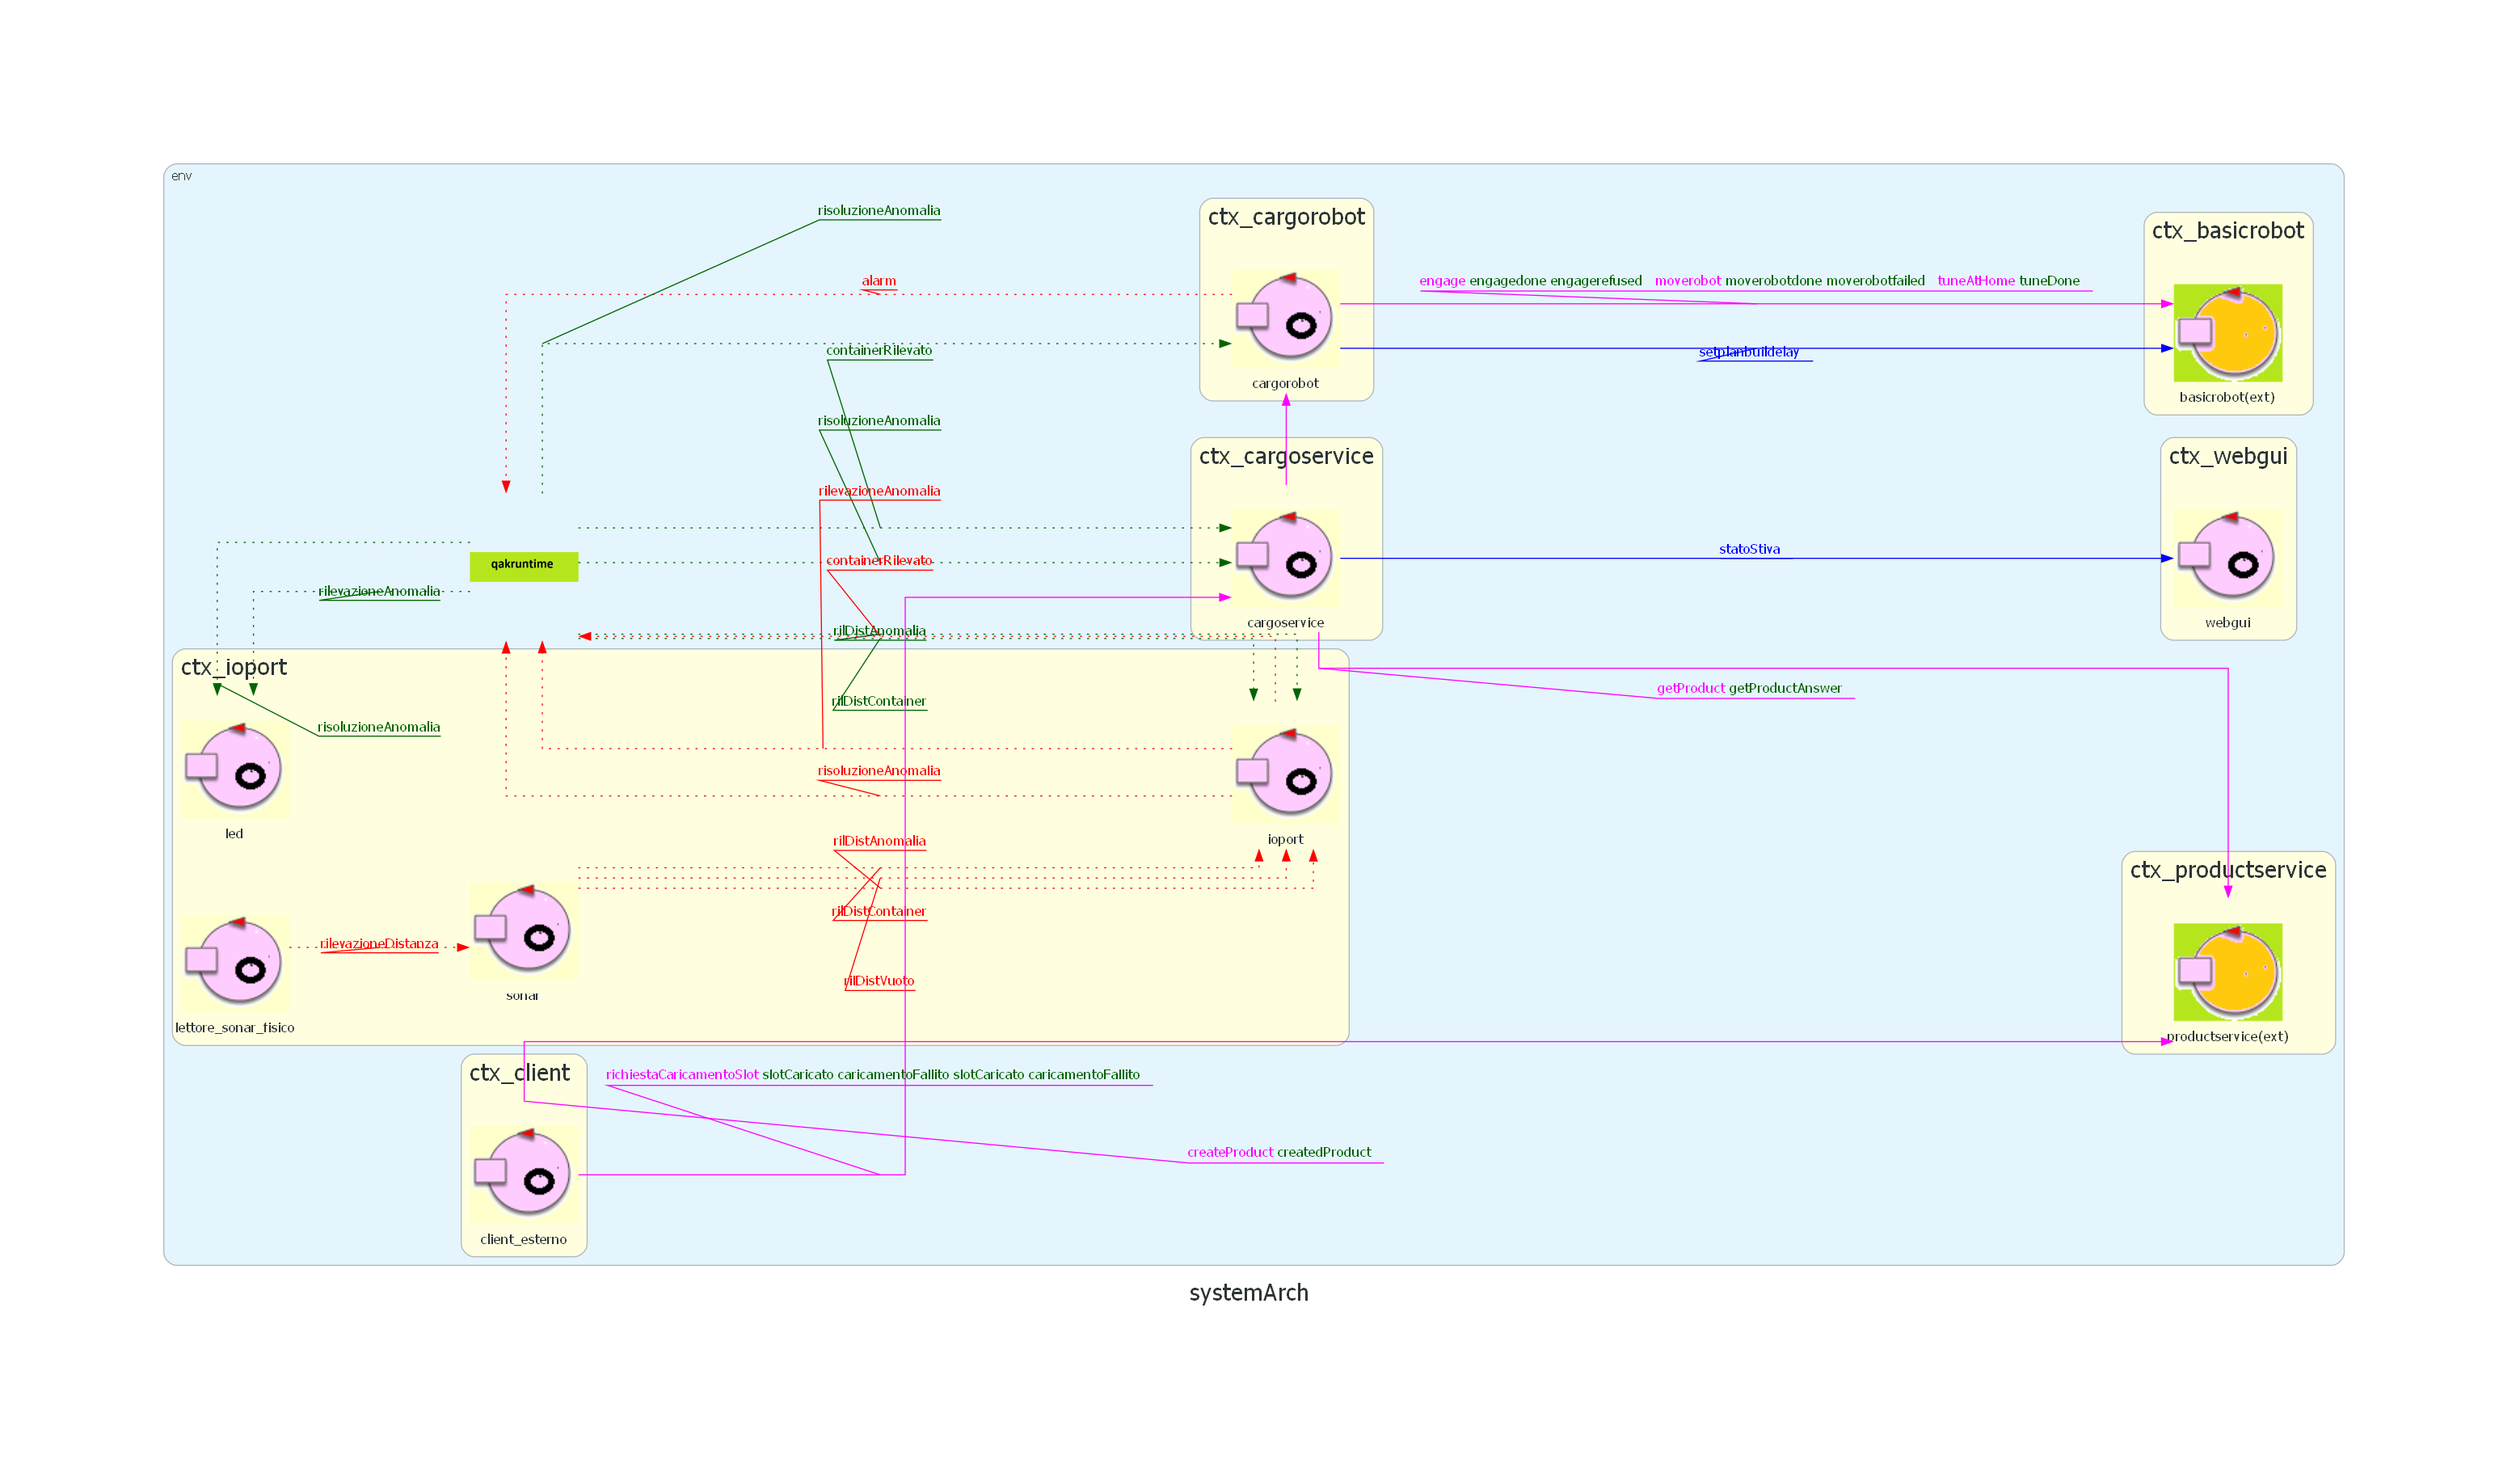
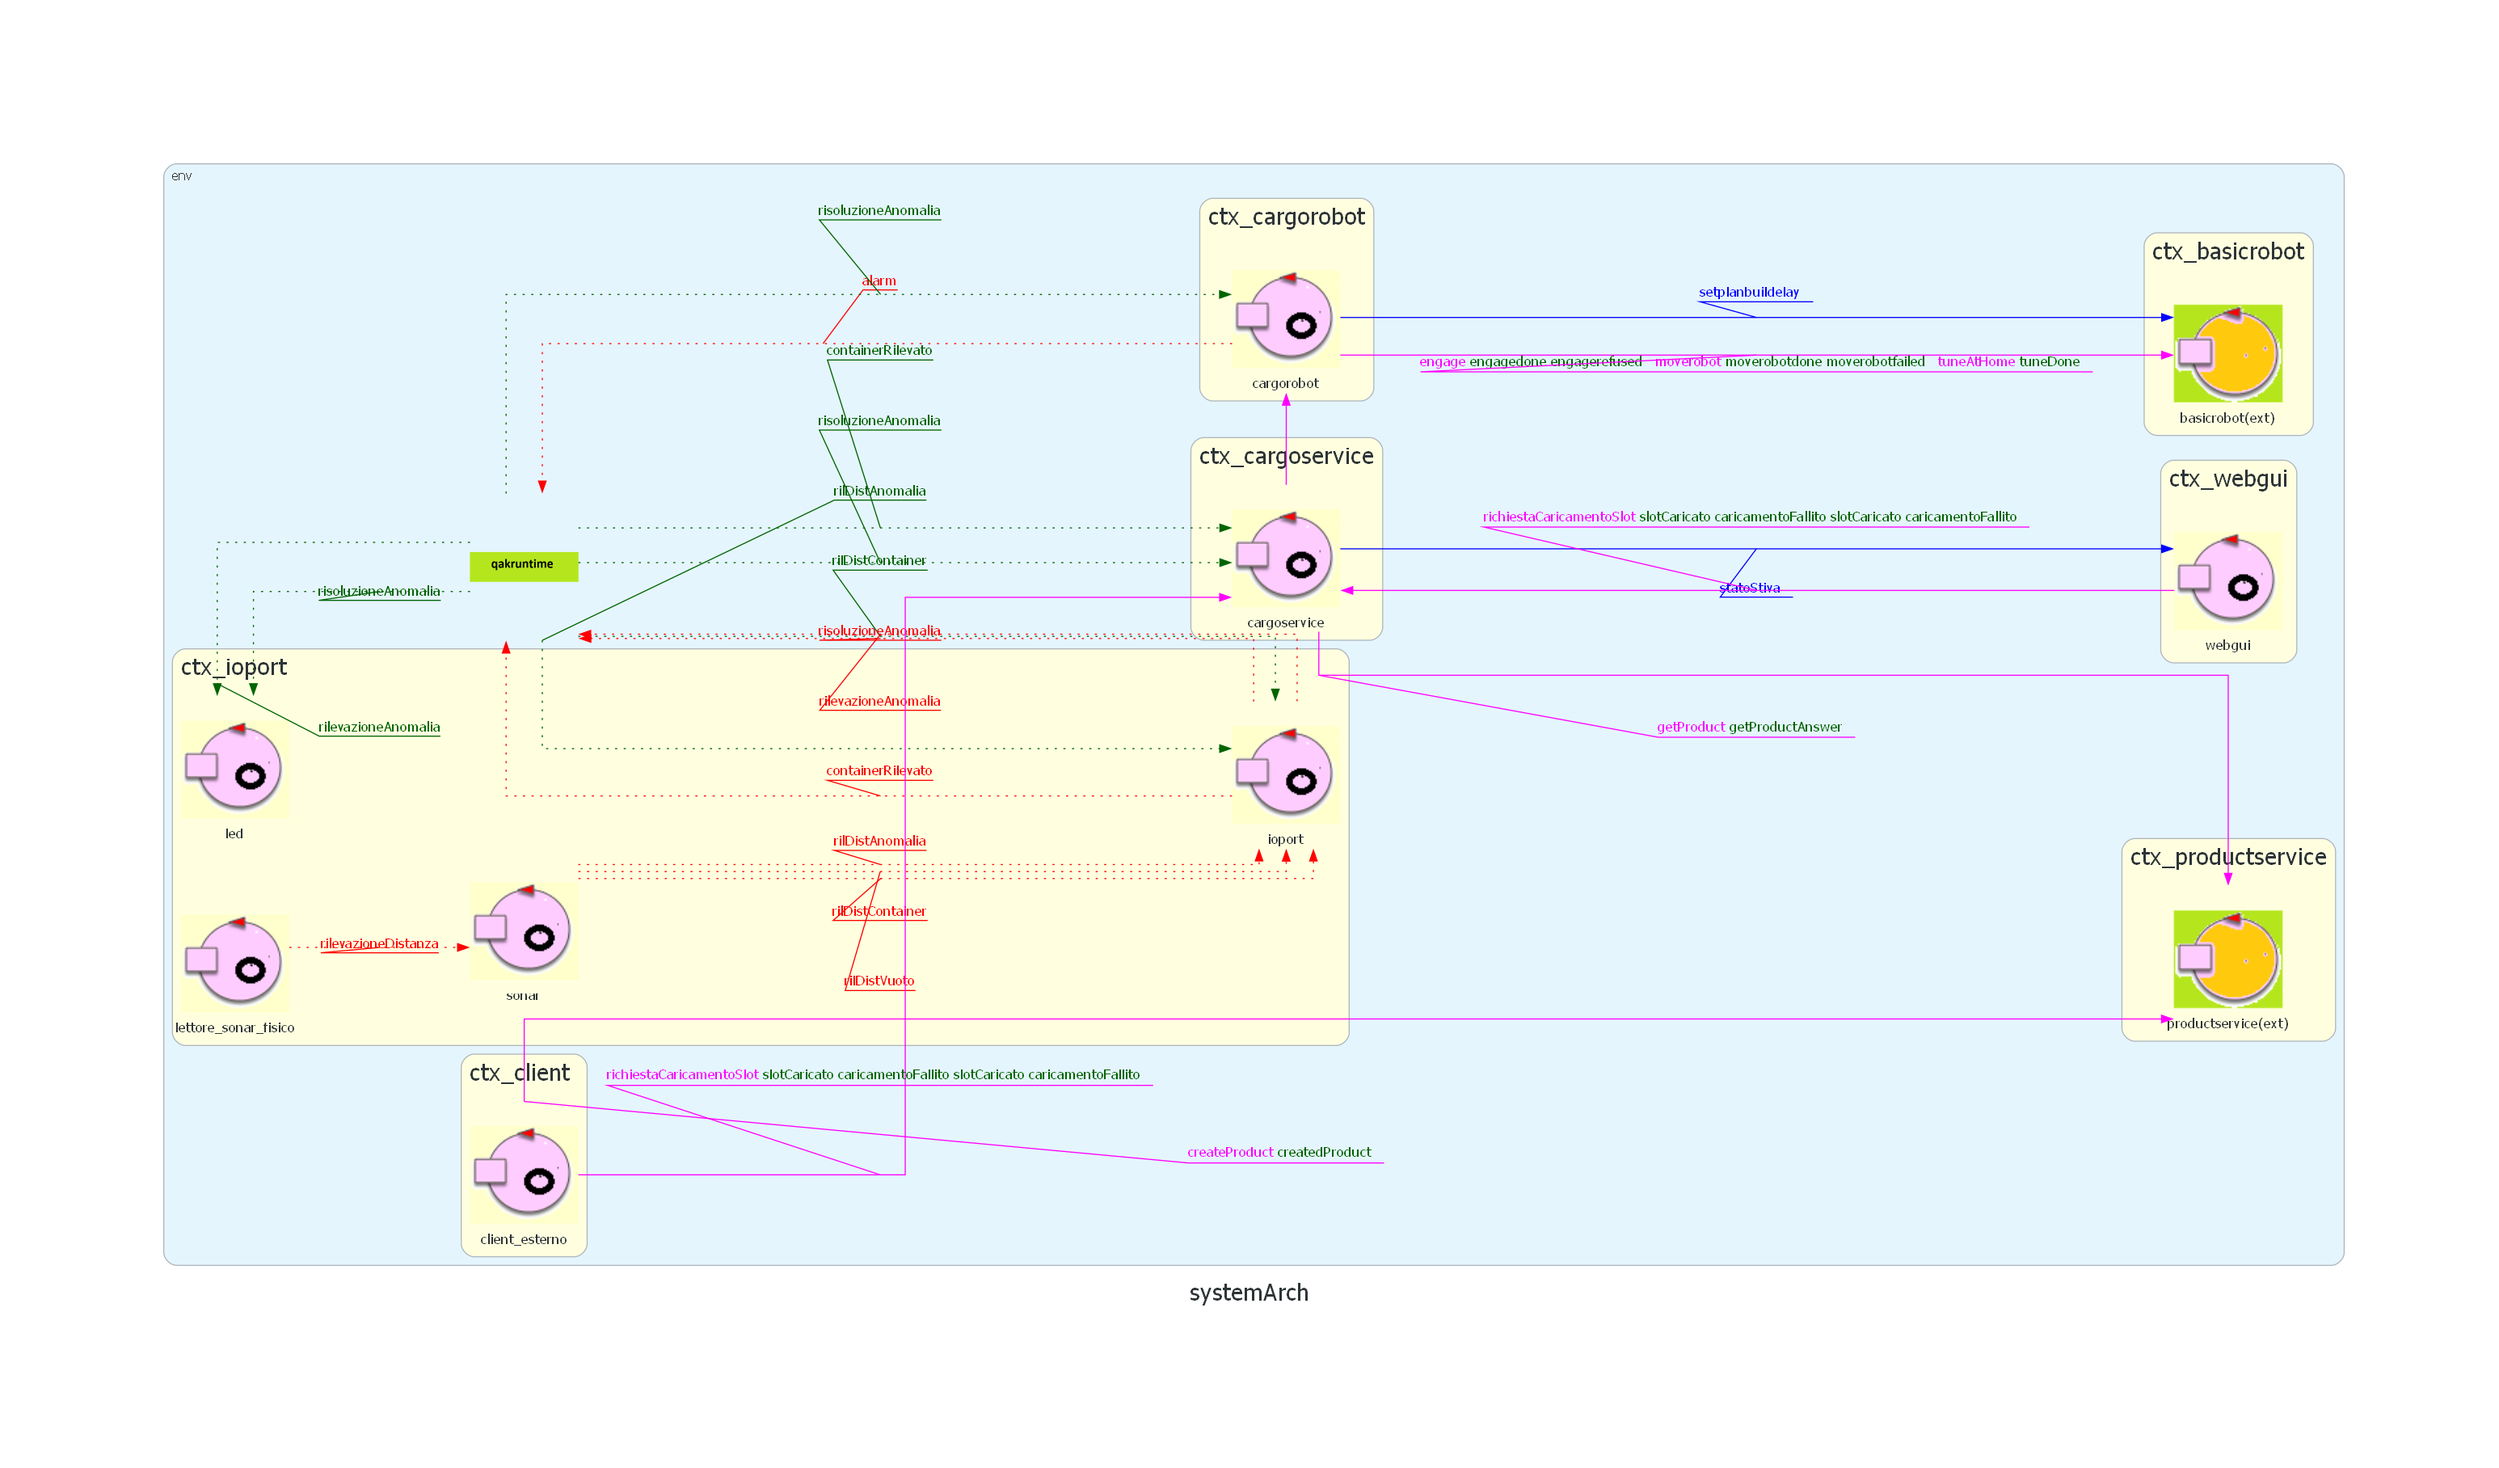
deployment webgui docker

diff --git a/sprint3/system_sprint3/src/it/unibo/webgui/Webgui.kt b/sprint3/system_sprint3/src/it/unibo/webgui/Webgui.kt
@@ -33,12 +33,15 @@ class Webgui ( name: String, scope: CoroutineScope, isconfined: Boolean=false, i
 				state("init") { //this:State
 					action { //it:State
 						observeResource("client","9091","ctx_cargoservice","cargoservice","statoStiva")
+						request("richiestaCaricamentoSlot", "richiestaCaricamentoSlot(1)" ,"cargoservice" )  
 						//genTimer( actor, state )
 					}
 					//After Lenzi Aug2002
 					sysaction { //it:State
 					}	 	 
 					 transition(edgeName="t064",targetState="init",cond=whenDispatch("statoStiva"))
+					transition(edgeName="t065",targetState="init",cond=whenReply("richiestaCaricoAccettata"))
+					transition(edgeName="t066",targetState="init",cond=whenReply("richiestaCaricoRifiutata"))
 				}	 
 			}
 		}

diff --git a/sprint3/system_sprint3/src/it/unibo/client_esterno/Client_esterno.kt b/sprint3/system_sprint3/src/it/unibo/client_esterno/Client_esterno.kt
@@ -39,8 +39,8 @@ class Client_esterno ( name: String, scope: CoroutineScope, isconfined: Boolean=
 					//After Lenzi Aug2002
 					sysaction { //it:State
 					}	 	 
-					 transition(edgeName="t065",targetState="init",cond=whenReply("richiestaCaricoAccettata"))
-					transition(edgeName="t066",targetState="init",cond=whenReply("richiestaCaricoRifiutata"))
+					 transition(edgeName="t067",targetState="init",cond=whenReply("richiestaCaricoAccettata"))
+					transition(edgeName="t068",targetState="init",cond=whenReply("richiestaCaricoRifiutata"))
 				}	 
 			}
 		}

diff --git a/sprint3/system_sprint3/Arch_system.py b/sprint3/system_sprint3/Arch_system.py
@@ -61,6 +61,7 @@ with Diagram('systemArch', show=False, outformat='png', graph_attr=graphattr) as
      client_esterno >> Edge(color='magenta', style='solid', decorate='true', label='<createProduct<font color="darkgreen"> createdProduct</font> &nbsp; >',  fontcolor='magenta') >> productservice
      cargoservice >> Edge(color='magenta', style='solid', decorate='true', label='<getProduct<font color="darkgreen"> getProductAnswer</font> &nbsp; >',  fontcolor='magenta') >> productservice
      client_esterno >> Edge(color='magenta', style='solid', decorate='true', label='<richiestaCaricamentoSlot<font color="darkgreen"> slotCaricato caricamentoFallito slotCaricato caricamentoFallito</font> &nbsp; >',  fontcolor='magenta') >> cargoservice
+     webgui >> Edge(color='magenta', style='solid', decorate='true', label='<richiestaCaricamentoSlot<font color="darkgreen"> slotCaricato caricamentoFallito slotCaricato caricamentoFallito</font> &nbsp; >',  fontcolor='magenta') >> cargoservice
      cargoservice >> Edge(color='magenta', style='solid', decorate='true', label='<richiestaCaricamentoSlot<font color="darkgreen"> slotCaricato caricamentoFallito slotCaricato caricamentoFallito</font> &nbsp; >',  fontcolor='magenta') >> cargorobot
      cargoservice >> Edge(color='blue', style='solid',  decorate='true', label='<statoStiva &nbsp; >',  fontcolor='blue') >> webgui
      cargorobot >> Edge(color='blue', style='solid',  decorate='true', label='<setplanbuildelay &nbsp; >',  fontcolor='blue') >> basicrobot
